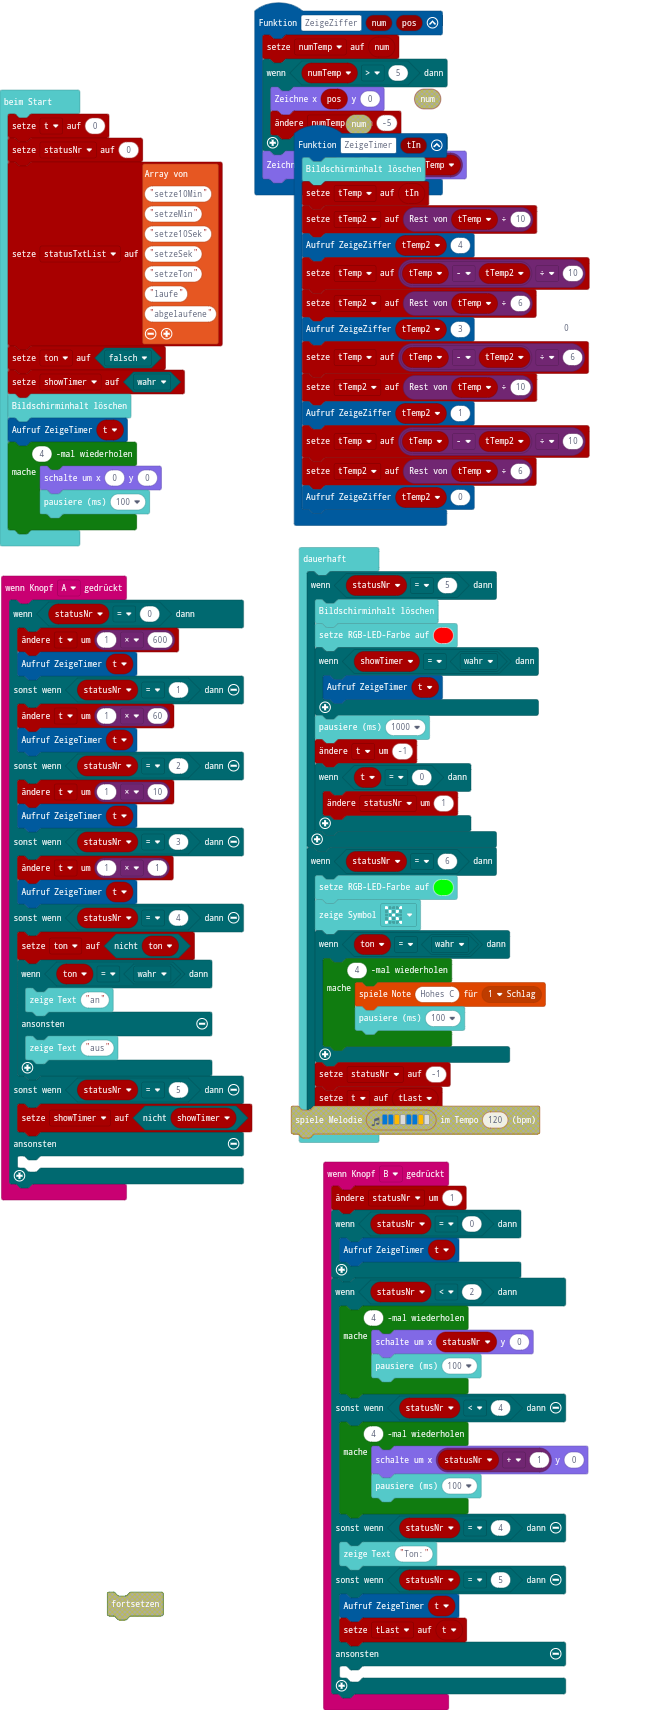
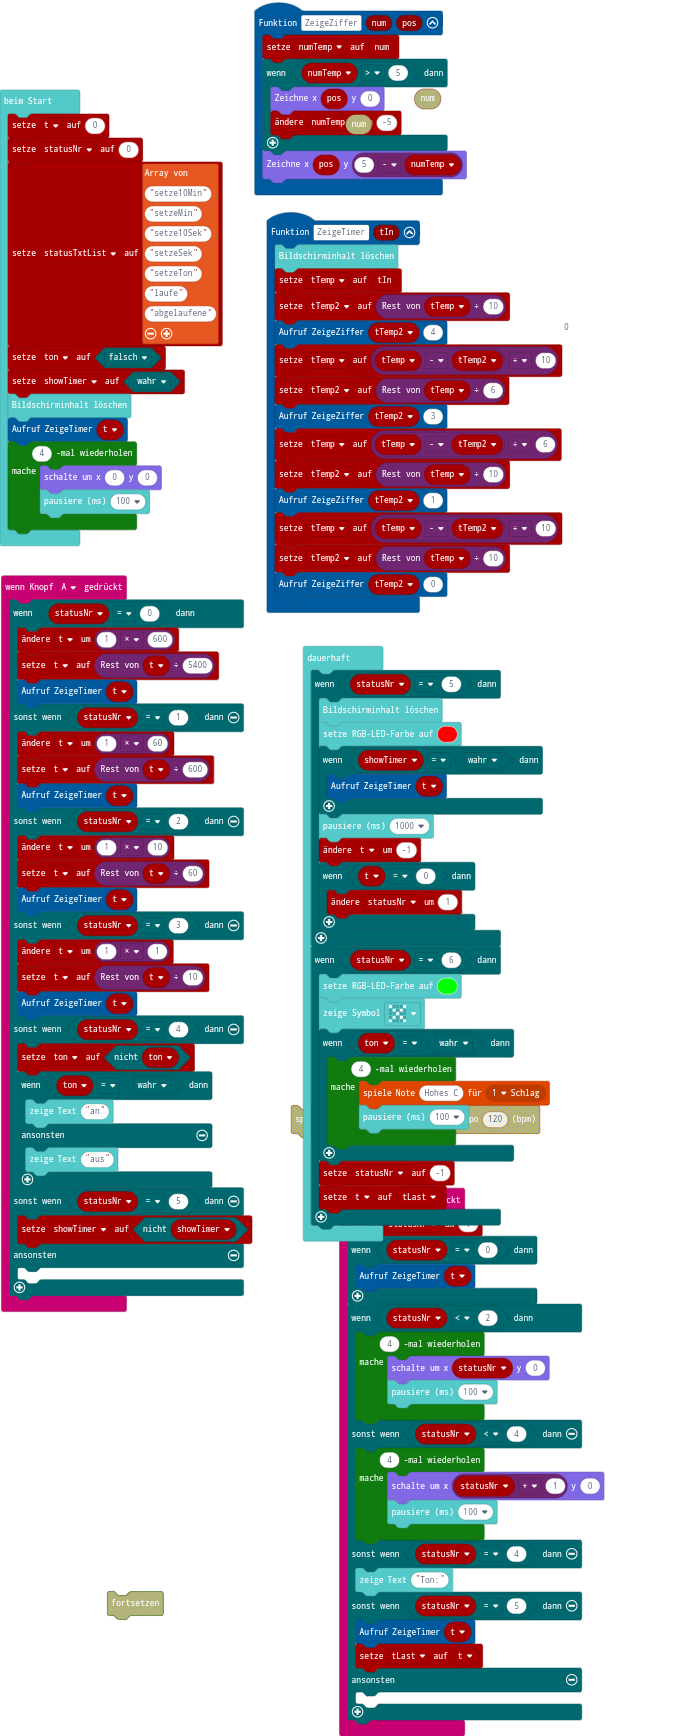
Wert der jeweiligen Stellen moduli ...

diff --git a/main.ts b/main.ts
@@ -9,15 +9,19 @@ function ZeigeZiffer (num: number, pos: number) {
 input.onButtonPressed(Button.A, function () {
     if (statusNr == 0) {
         t += 1 * 600
+        t = t % 5400
         ZeigeTimer(t)
     } else if (statusNr == 1) {
         t += 1 * 60
+        t = t % 600
         ZeigeTimer(t)
     } else if (statusNr == 2) {
         t += 1 * 10
+        t = t % 60
         ZeigeTimer(t)
     } else if (statusNr == 3) {
         t += 1 * 1
+        t = t % 10
         ZeigeTimer(t)
     } else if (statusNr == 4) {
         ton = !(ton)
@@ -68,7 +72,7 @@ function ZeigeTimer (tIn: number) {
     tTemp2 = tTemp % 10
     ZeigeZiffer(tTemp2, 1)
     tTemp = (tTemp - tTemp2) / 10
-    tTemp2 = tTemp % 6
+    tTemp2 = tTemp % 10
     ZeigeZiffer(tTemp2, 0)
 }
 let tTemp2 = 0
